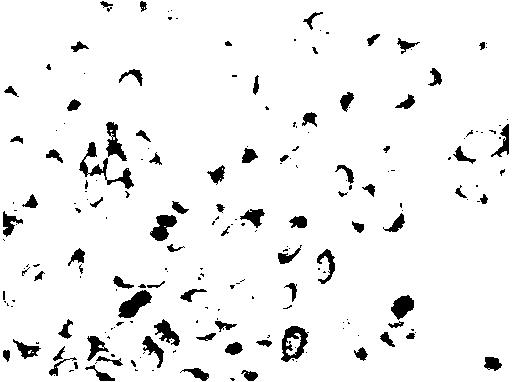
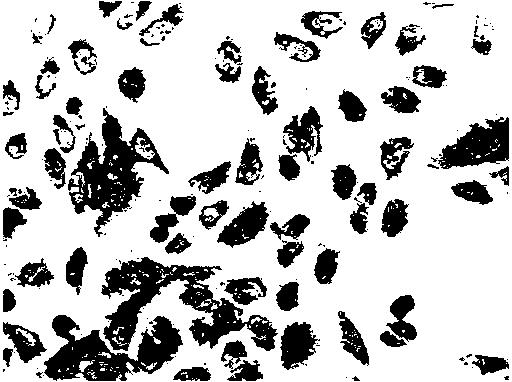
Brightness and Contrast process added

diff --git a/src/ContrastBrightness.java b/src/ContrastBrightness.java
@@ -1,0 +1,24 @@
+import javax.imageio.ImageIO;
+import java.awt.image.*;
+import java.io.File;
+import java.io.IOException;
+
+public class ContrastBrightness {
+    public static void main(String[] args) throws Exception {
+        if(args.length != 1){
+            System.out.println("invalid input");
+            System.exit(0);
+        }
+        process(args[0], 1.2f, 1f);
+    }
+
+    public static void process(String file, float contrast, float brightness)throws IOException {
+        BufferedImage image;
+        File f = new File(file);
+        image = ImageIO.read(f);
+        RescaleOp rescaleOp = new RescaleOp(contrast, brightness, null);
+        image = rescaleOp.filter(image, null);
+
+        ImageIO.write(image, "JPG", new File("output.JPG"));
+    }
+}

diff --git a/src/Pipeline.java b/src/Pipeline.java
@@ -1,10 +1,11 @@
 public class Pipeline {
     public static void main(String[] args) {
         try {
-            GaussianFilter.process("cells.jpg");
+            ContrastBrightness.process("cells.jpg", 1.4f, 1.8f);
+            GaussianFilter.process("output.JPG");
             Sharpen.process("output.JPG");
             MedianFilter.process("output.JPG");
-            Threshold.process("output.JPG", 80);
+            Threshold.process("output.JPG", 60);
         }
         catch (Exception e){
             System.err.println(e);
